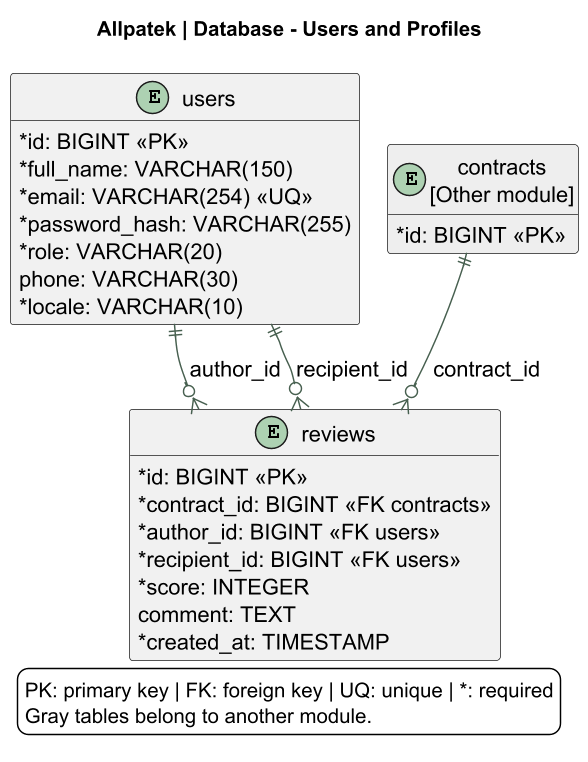
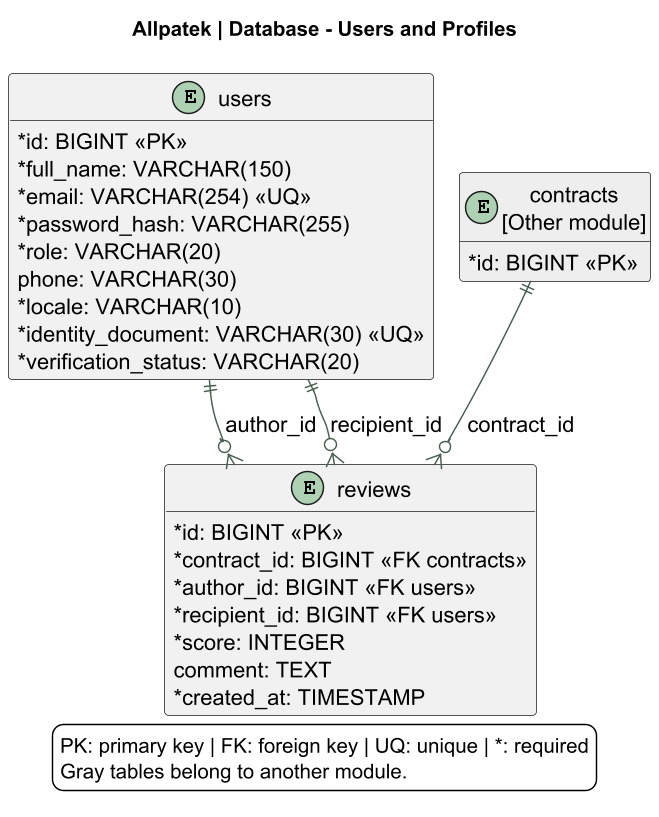
docs(architecture): add verification and evidence fields

Changed region(s): [[0.0, 0.0906, 1.0, 0.9961], [0.1531, 0.0, 0.8265, 0.0604]]

diff --git a/README.md b/README.md
@@ -436,7 +436,7 @@ Los diagramas siguientes corresponden al modelo de negocio de la API Java. Se in
 
 #### Users and Profiles
 
-User representa a una persona registrada y su rol. Review guarda la calificación que una parte deja a la otra al terminar un contrato. Esto recoge la reputación bidireccional propuesta en el capítulo I.
+User representa a una persona registrada, su rol y el estado de verificación de su identidad. Review guarda la calificación que una parte deja a la otra al terminar un contrato. Esto recoge la reputación bidireccional propuesta en el capítulo I y la validación solicitada en US01 del capítulo III.
 
 ![Figura 4.7.1. Clases de Users and Profiles](assets/chapter-04/architecture/08-classes-users.png)
 
@@ -468,7 +468,7 @@ Payment registra una operación y su resultado. SubscriptionPlan y Subscription 
 
 #### Crop Monitoring
 
-ProgressUpdate registra el trabajo y sus evidencias. WeatherAlert conserva una alerta con fuente y fecha. Se agrupan aquí para que el usuario consulte tanto el avance del cultivo como la información climática de su parcela.
+ProgressUpdate registra el trabajo, sus evidencias, fecha de captura y ubicación. WeatherAlert conserva una alerta con fuente y fecha. Se agrupan aquí para que el usuario consulte tanto el avance del cultivo como la información climática de su parcela. La ubicación de la evidencia responde a US04 del capítulo III.
 
 ![Figura 4.7.5. Clases de Crop Monitoring](assets/chapter-04/architecture/12-classes-monitoring.png)
 
@@ -488,7 +488,7 @@ Los diagramas presentan las tablas de cada área con columnas, tipos y relacione
 
 #### Users and Profiles
 
-User representa a una persona registrada y su rol. Review guarda la calificación que una parte deja a la otra al terminar un contrato. Esto recoge la reputación bidireccional propuesta en el capítulo I.
+User representa a una persona registrada, su rol y el estado de verificación de su identidad. Review guarda la calificación que una parte deja a la otra al terminar un contrato. Esto recoge la reputación bidireccional propuesta en el capítulo I y la validación solicitada en US01 del capítulo III.
 
 ![Figura 4.8.1. Tablas de Users and Profiles](assets/chapter-04/architecture/13-database-users.png)
 
@@ -520,7 +520,7 @@ Payment registra una operación y su resultado. SubscriptionPlan y Subscription 
 
 #### Crop Monitoring
 
-ProgressUpdate registra el trabajo y sus evidencias. WeatherAlert conserva una alerta con fuente y fecha. Se agrupan aquí para que el usuario consulte tanto el avance del cultivo como la información climática de su parcela.
+ProgressUpdate registra el trabajo, sus evidencias, fecha de captura y ubicación. WeatherAlert conserva una alerta con fuente y fecha. Se agrupan aquí para que el usuario consulte tanto el avance del cultivo como la información climática de su parcela. La ubicación de la evidencia responde a US04 del capítulo III.
 
 ![Figura 4.8.5. Tablas de Crop Monitoring](assets/chapter-04/architecture/17-database-monitoring.png)
 
@@ -531,6 +531,7 @@ ProgressUpdate registra el trabajo y sus evidencias. WeatherAlert conserva una a
 | Relación o dato | Regla que se aplicará |
 |---|---|
 | Usuario y parcelas | Un agricultor puede registrar varias parcelas. Solo su propietario puede modificarlas. |
+| Identidad | Todo usuario conserva el estado de su verificación. El proceso que la aprueba o rechaza se definirá con el equipo antes de implementar el servicio. |
 | Propuesta y reserva | Una propuesta tiene un plazo y puede ser aceptada, rechazada o recibir una contraoferta. Al acordar las condiciones, una reserva temporal evita que otra contratación use la misma parcela antes de confirmar el pago. |
 | Parcela y contratos | Una parcela conserva varios contratos históricos; sus temporadas activas no se superponen. |
 | Contrato e hitos | Un contrato proviene de una propuesta aceptada y puede referenciar su reserva. Tiene varios hitos ordenados cuya suma debe coincidir con el importe pactado. |
@@ -539,6 +540,7 @@ ProgressUpdate registra el trabajo y sus evidencias. WeatherAlert conserva una a
 | Confirmación de pagos | Una referencia de proveedor no se registra dos veces. Un hito no se desembolsa dos veces ni por encima del importe acordado. Las liberaciones acumuladas no superan los fondos confirmados de la temporada. |
 | Plan y suscripción | Un plan puede tener varias suscripciones. Sus precios y límites son configurables, no datos fijos en el código. |
 | Avance e hito | Un avance pertenece a un contrato y puede asociarse a uno de sus hitos. La API verifica que ambos correspondan al mismo acuerdo. |
+| Evidencia y ubicación | Una evidencia puede conservar fecha y coordenadas. Su ubicación se registra para validación; la regla exacta de aceptación se definirá antes de implementarla. |
 | Avances sin conexión | client_reference identifica el borrador enviado para evitar crear dos registros cuando se reintenta la misma carga. |
 | Calificación | Se permite una calificación por autor y contrato, dirigida a la otra parte y con puntuación de 1 a 5, al finalizar la temporada. |
 | Fotografías | Una parcela puede tener varias fotos y una sola principal. El formulario actual exige al menos tres para publicar. |
@@ -551,9 +553,10 @@ Los roles y estados se validarán contra sus valores permitidos. Las áreas e im
 | Función documentada | Procedencia | Diseño relacionado |
 |---|---|---|
 | Catálogo y publicación de parcelas | Capítulos I y IV | Plot, PlotPhoto y Land Management. |
+| Registro y verificación de identidad | Capítulo III | User y VerificationStatus. |
 | Propuesta, contraoferta y reserva | Capítulos II y III | Proposal, Reservation y disponibilidad de Plot. |
 | Contratación y documento automático | Capítulos I, III y IV | Contract, Payments y flujo n8n. |
-| Seguimiento y pagos por hitos | Capítulo IV | Milestone, ProgressUpdate y Payment. |
+| Seguimiento, evidencias y pagos por hitos | Capítulos III y IV | Milestone, ProgressUpdate y Payment. |
 | Calificaciones entre participantes | Capítulo I | Review en Users and Profiles. |
 | Planes mensuales | Capítulo IV | SubscriptionPlan y Subscription, pendientes de confirmación comercial. |
 | Avisos por correo y WhatsApp | Capítulo I | Flujos n8n y servicios de mensajería. |
